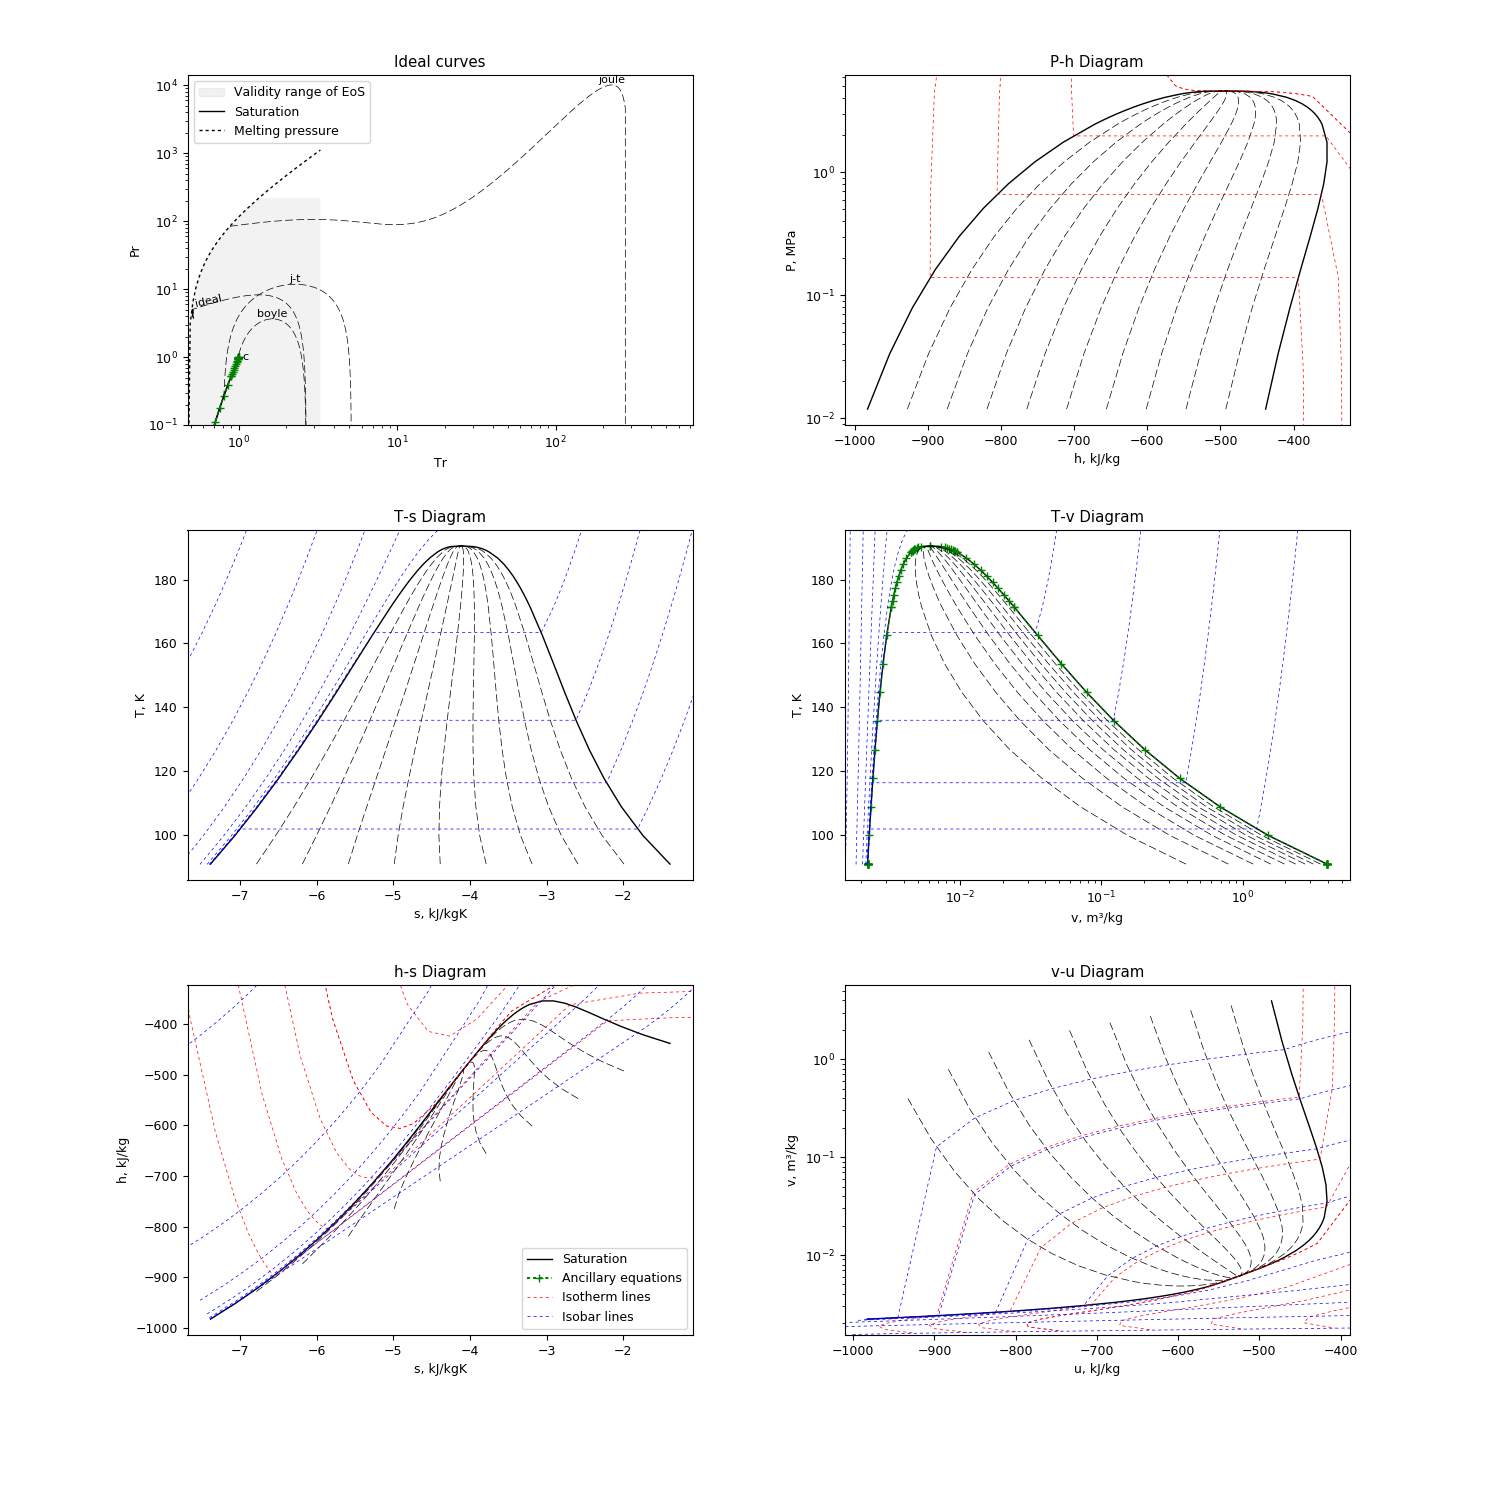
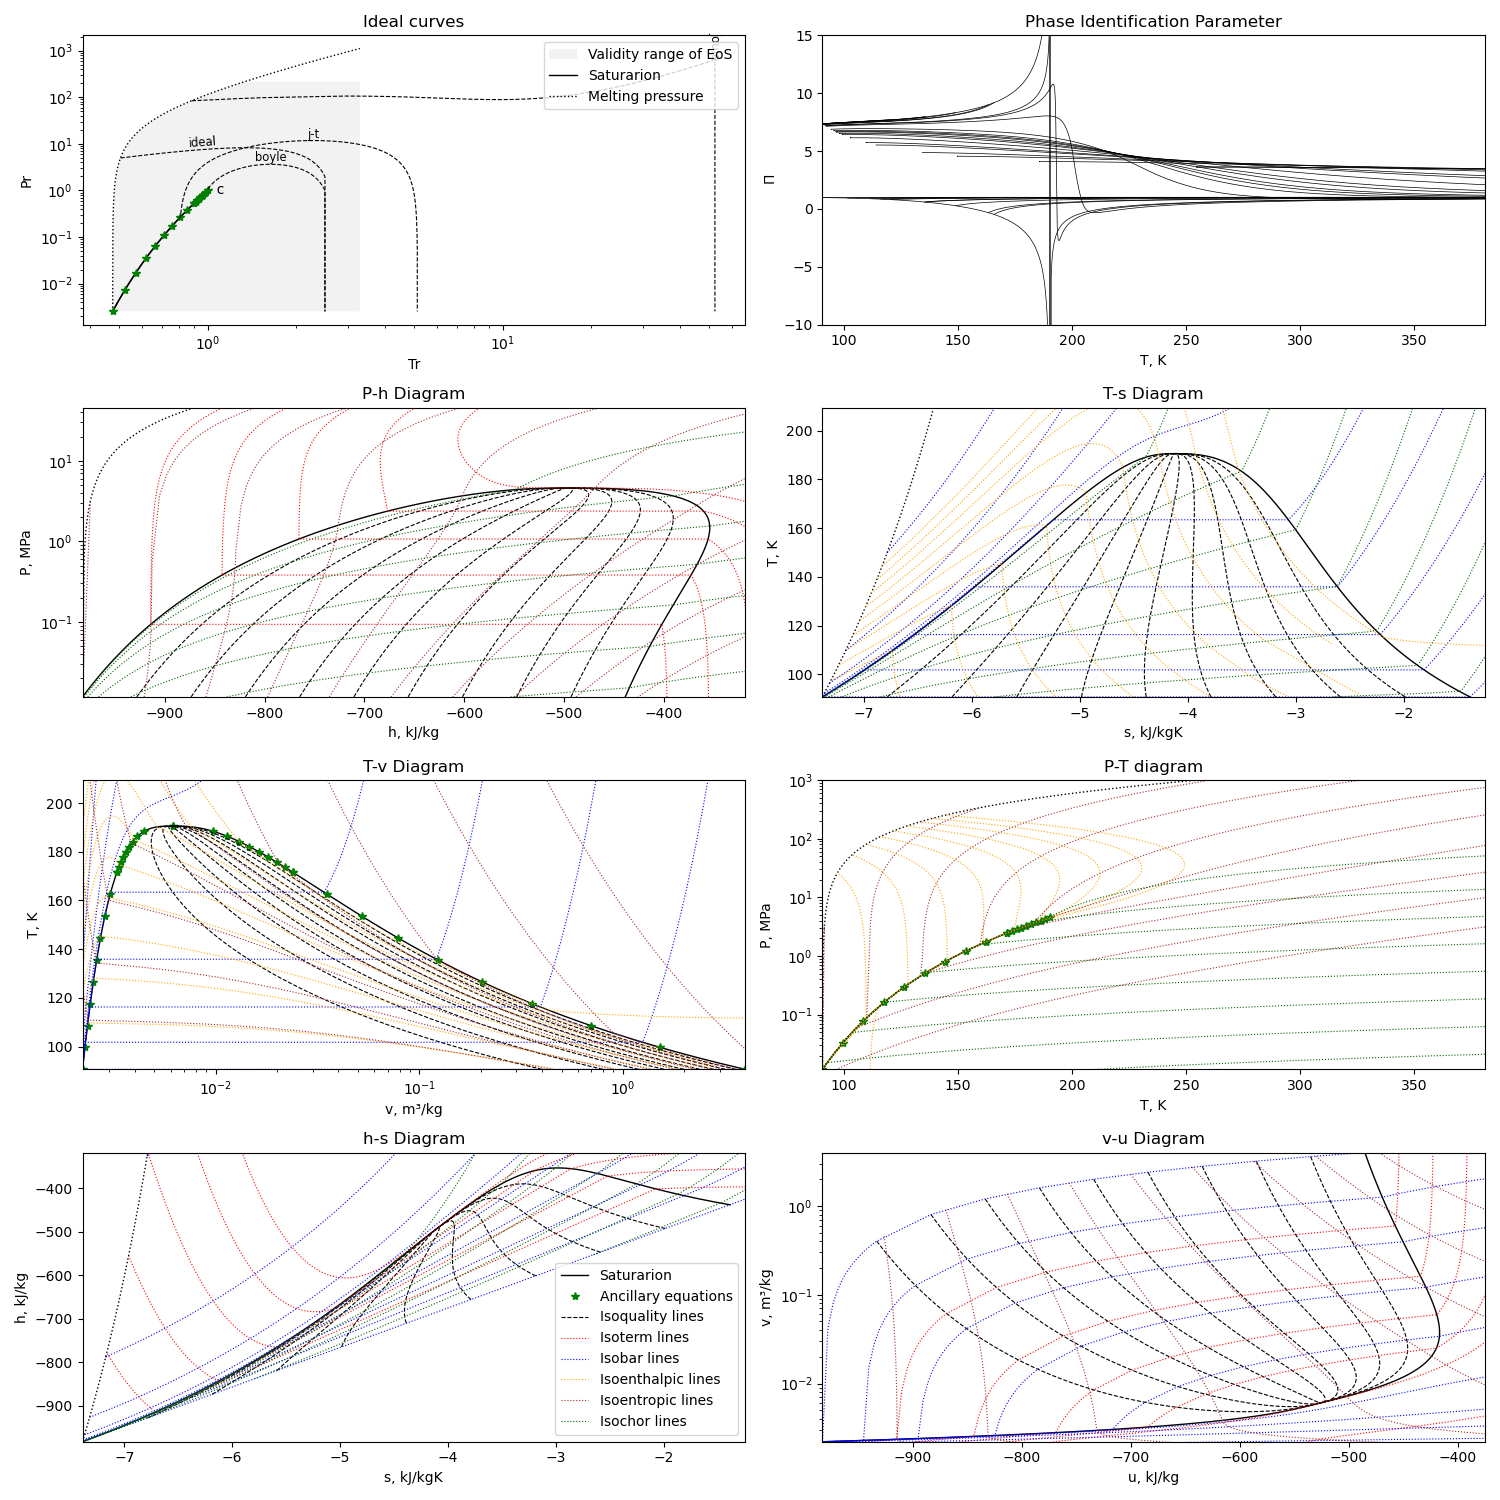
Update alkanes images for mEoS documentation including PIP plot

diff --git a/.script/plotMEoS.py b/.script/plotMEoS.py
@@ -235,10 +235,11 @@ if fluid is not IAPWS95 and fluid._melting:
     for t, p in zip(Tm, Pm):
         Ps = fluid()._Vapor_Pressure(t)
         if abs(p-Ps)/Ps < 1e-2:
-            mel.append(fluid(T=t, x=0))
+            # Avoid round error in log10, sometimes return a value below Tt
+            mel.append(fluid(T=max(t, Tmin), x=0))
         else:
             try:
-                mel.append(fluid(T=t, P=p))
+                mel.append(fluid(T=t, P=p, rho0=fluid._Liquid_Density(t)))
             except:
                 pass
 
@@ -380,7 +381,7 @@ for T in isoT:
 
     # Calculate the saturation point if available
     sat_pnt = []
-    if T < Tc:
+    if Pt.T < T < Tc:
         for x in np.linspace(1, 0.1, 9, endpoint=False):
             sat_pnt.append(fluid(T=T, x=x))
         for x in np.linspace(0.1, 0, 11):
@@ -496,15 +497,17 @@ for P in np.concatenate([isoP, isoP_PIP]):
     PIP = []
     for p in pts:
         if p.status == 1:
+            if p.x in (0, 1):
+                if not PIP and (p.PIP < 0 or p.PIP > 10):
+                    continue
+                PIP.append(p.PIP)
+            else:
+                PIP.append(None)
             h.append(p.h.kJkg)
             T.append(p.T)
             s.append(p.s.kJkgK)
             u.append(p.u.kJkg)
             v.append(p.v)
-            if p.x in (0, 1):
-                PIP.append(p.PIP)
-            else:
-                PIP.append(None)
     if P in isoP:
         ax_Ts.plot(s, T, label=txt, **isoP_kw)
         ax_Tv.plot(v, T, label=txt, **isoP_kw)
@@ -747,6 +750,14 @@ for curva in ["ideal", "boyle", "joule-thomson", "joule"]:
     P_line = []
     pmin = Pmin
     for t in T:
+        # Optional limits for ideal curves to avoid false values out of range
+        # if curva in ["ideal", "boyle"]:
+        #     if t > 2.5*fluid.Tc:
+        #         continue
+        # if curva == "joule-thomson":
+        #     if t > 8*fluid.Tc:
+        #         continue
+
         P = fluid()._IdealCurve(curva, t)
         if P is None or P < 0:
             continue

diff --git a/lib/meos.py b/lib/meos.py
@@ -1907,6 +1907,8 @@ class MEoS(ThermoAdvanced):
                     x = 1
                 else:
                     x = (1./rho-1/rhoL)/(1/rhoG-1/rhoL)
+                    x = min(x, 1)
+                    x = max(x, 0)
 
         elif self._mode == "T-h":
             prop = self._Th()
@@ -2539,7 +2541,11 @@ class MEoS(ThermoAdvanced):
                 T = float(T)
                 rhol, rhov, Ps = self._saturation(T)
                 return Ps-P
-            T, rinput = newton(funcion, 0.99*self.Tc, full_output=True)
+            try:
+                T, rinput = newton(funcion, 0.99*self.Tc, full_output=True)
+            except RuntimeError:
+                self.status = 0
+                return
             rhoL, rhoG, Ps = self._saturation(T)
             rho = 1/(1/rhoG*x+1/rhoL*(1-x))
             self.status = 1

diff --git a/lib/mEoS/nC22.py b/lib/mEoS/nC22.py
@@ -93,6 +93,7 @@ class nC22(MEoS):
                     "doi": "10.1063/5.0048675"},
         "sigma": [0.0522], "exp": [1.25]}
 
+    # FIXME: Vapor Pressure ancillary equation don't fit the values at low T
     _vapor_Pressure = {
         "eq": 3,
         "n": [-12.3834, 2.8818, -11.6292, -2.7357, -7.3103, 1188.9117],
